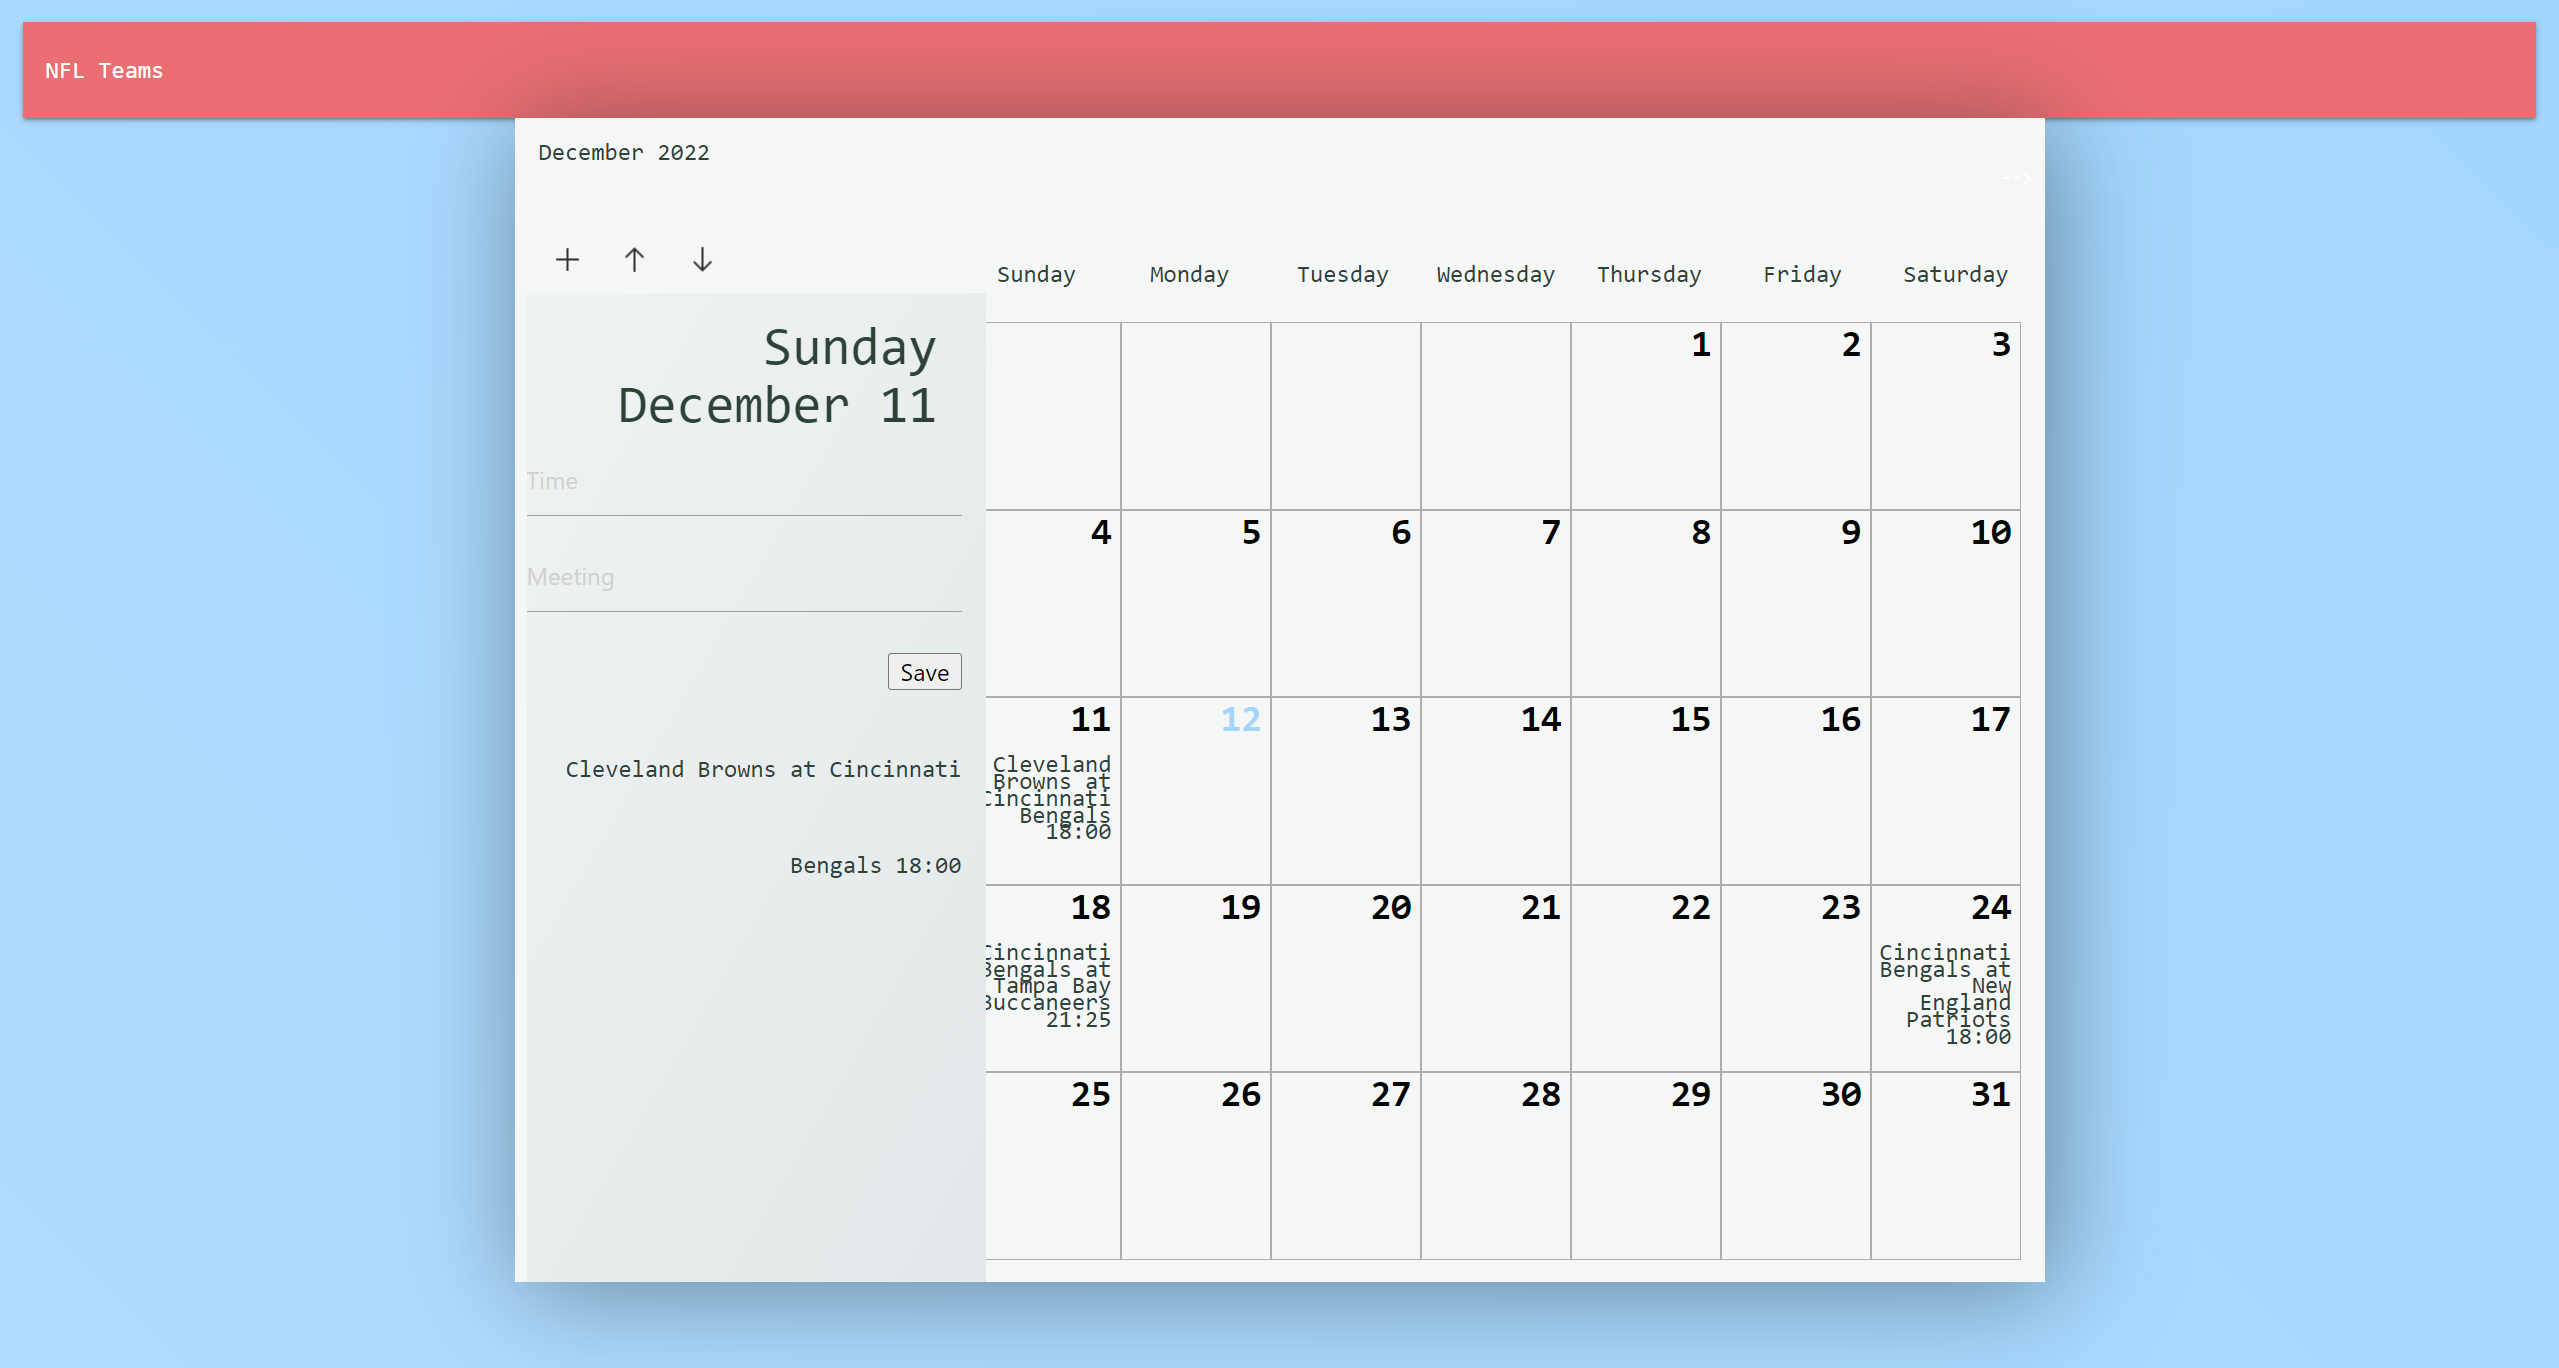
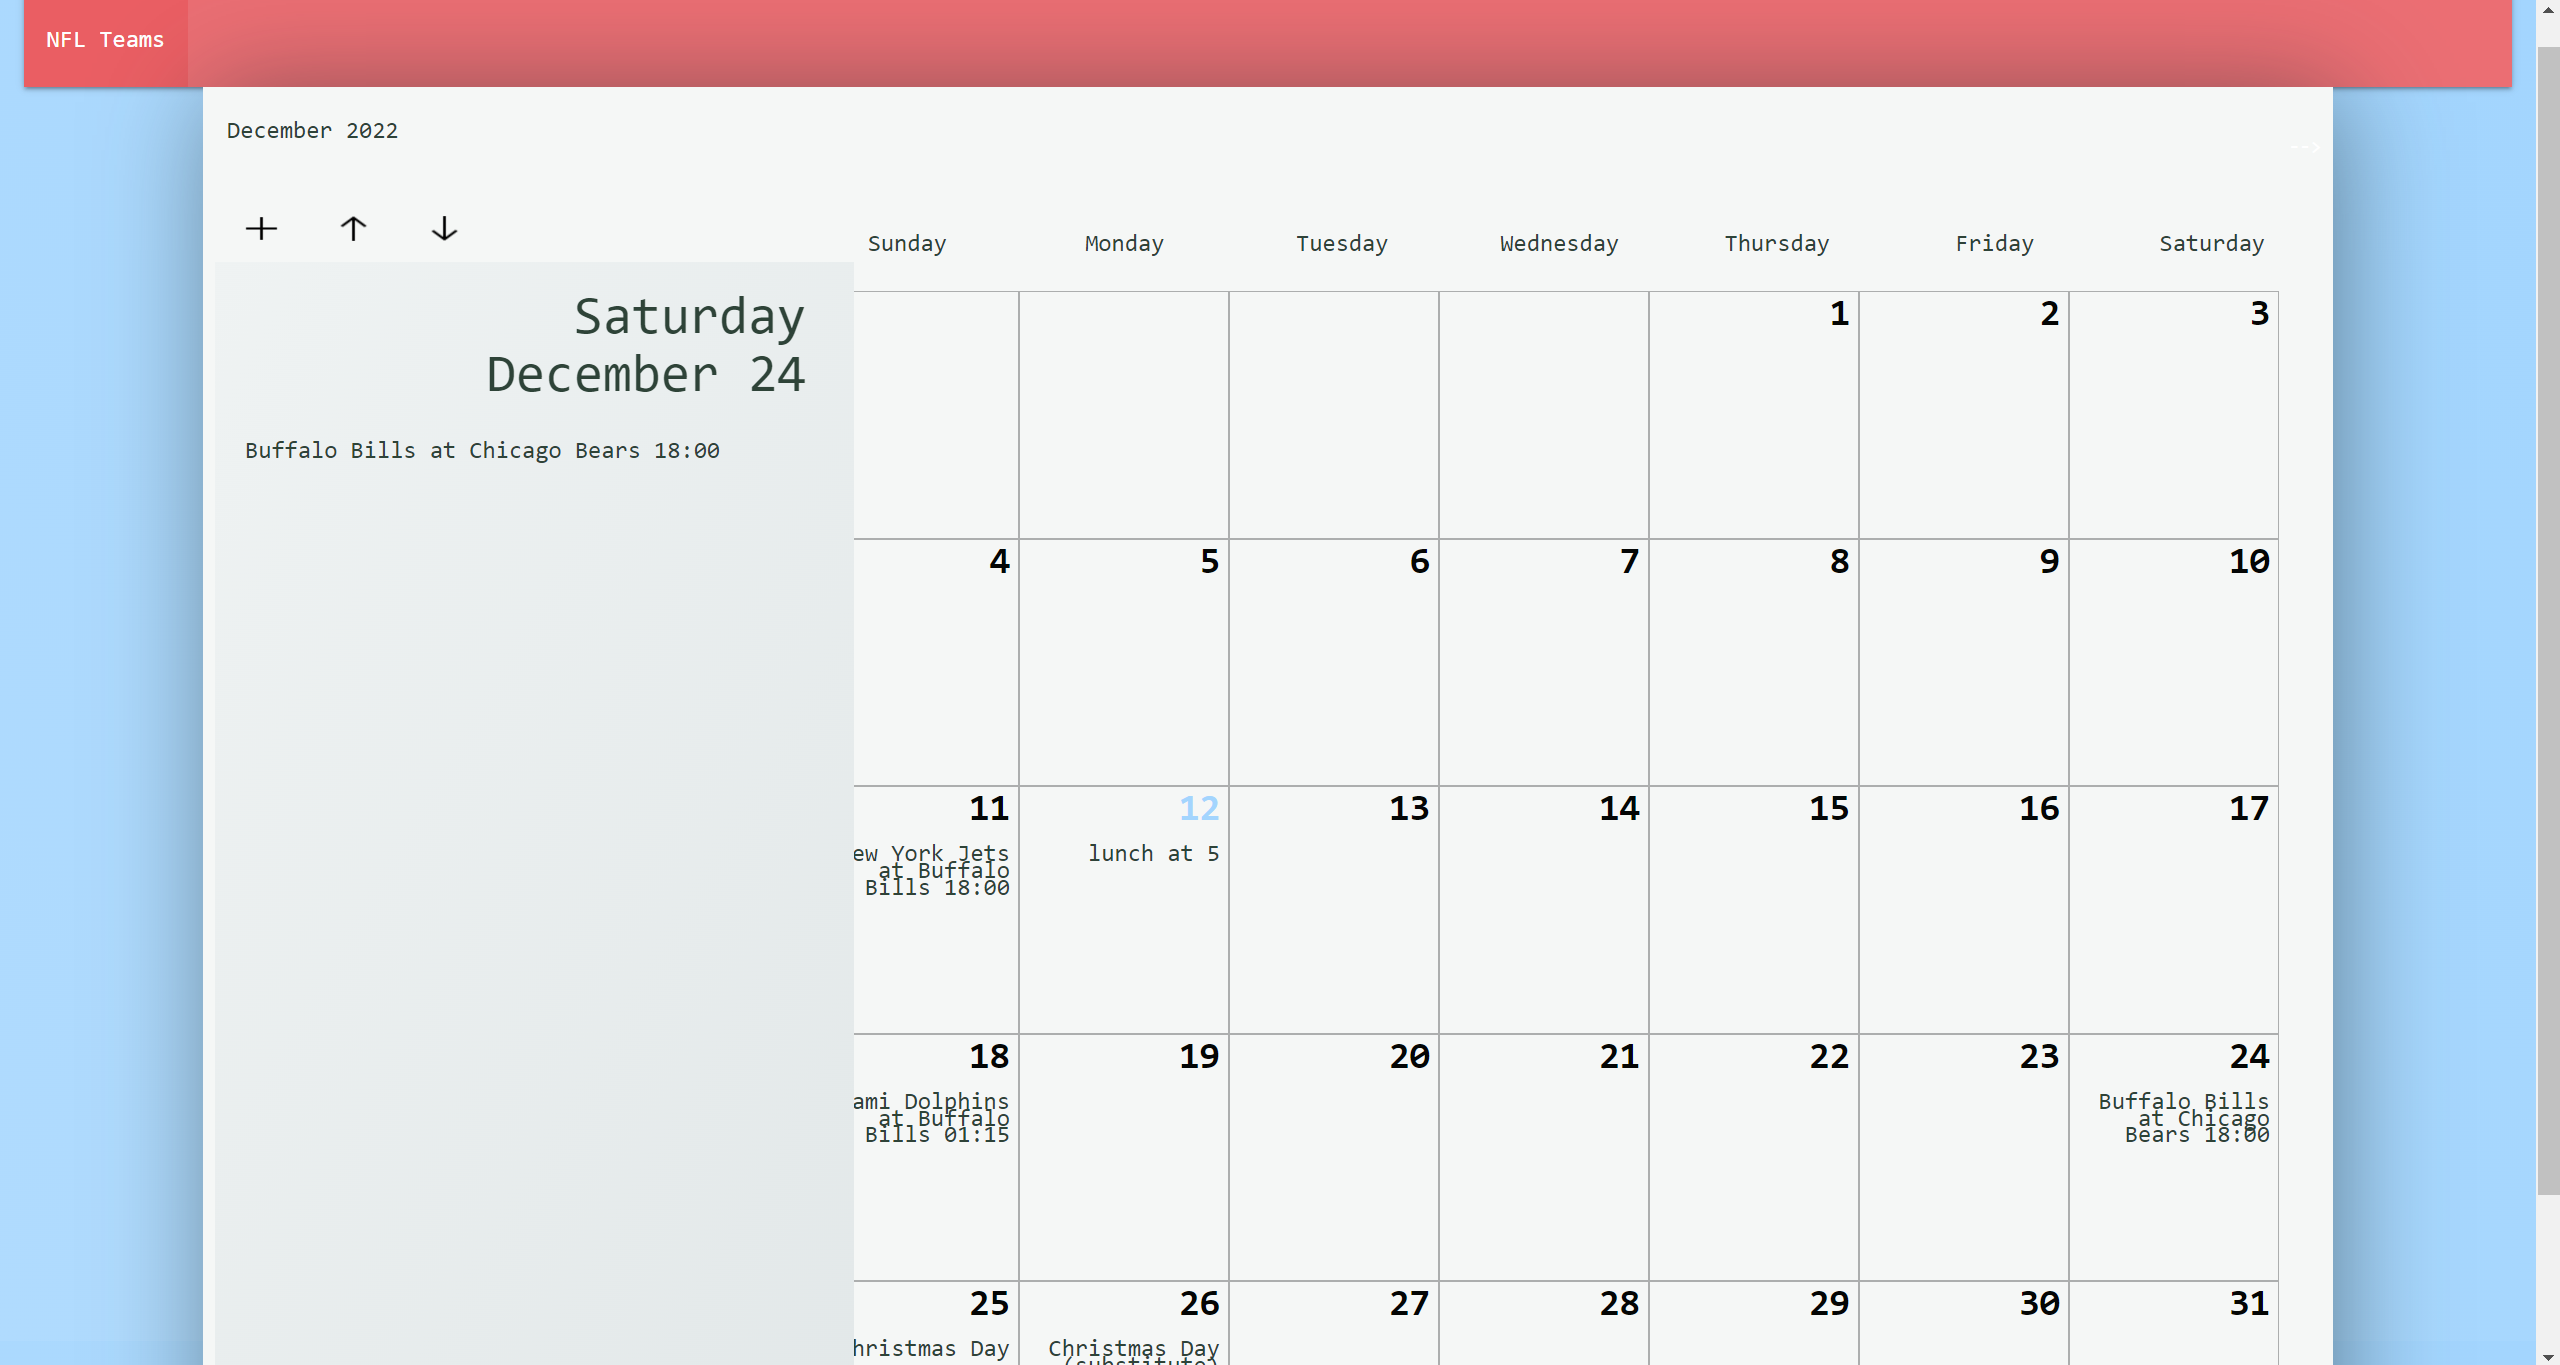
can now add own plans

diff --git a/assets/js/script.js b/assets/js/script.js
@@ -23,6 +23,10 @@ var sidebarList = document.querySelector('.sidebar-list');
 var calEvent;
 var plusSign = document.querySelector(".plus-sign");
 var saveTodo = document.querySelector("#save-todo")
+var curMonthDay = document.querySelector('#curMonthDay')
+var sideDate;
+var todoItem = document.querySelector("#todo-item");
+var todoItemArray = [];
 
 function displayDates() {
     //displays month and year at top of calendar
@@ -32,7 +36,7 @@ function displayDates() {
     var todaysWeekday = document.querySelector('#curWeekday');
     todaysWeekday.textContent = curWeekDay;
     //displays todays date and month into box on side of calendar
-    var curMonthDay = document.querySelector('#curMonthDay');
+    //var curMonthDay = document.querySelector('#curMonthDay');
     curMonthDay.textContent = curMonth + ' ' + curDay;
     //function to compare the date number on the calendar to the current date and add class '.today'
     for (let i = 1; i <= paddingDays + numOfDays; i++) {
@@ -62,6 +66,18 @@ function displayDates() {
 
 }
 displayDates();
+
+function loadLocalStorage (){
+    sideDate = curYear + "-" + dayjs(curMonthDay.textContent).format("MM-DD")
+    todoItemEl = document.createElement("p");
+    todoItemEl.textContent = todoItem.value
+
+    document.getElementById(sideDate).appendChild(todoItemEl)
+    todoItemEl.textContent = localStorage.getItem(sideDate)
+}
+
+loadLocalStorage()
+
 
 async function run(t) {
     var nflApi = `https://sports.core.api.espn.com/v2/sports/football/leagues/nfl/seasons/2022/teams/${t}/events?lang=en&region=us`
@@ -103,7 +119,6 @@ function holidayData() {
             return response.json();
         })
         .then(function (data) {
-            //console.log(data)
             for (var i = 0; i < data.response.holidays.length; i++) {
                 let holidayInfo = {
                     date: dayjs(data.response.holidays[i].date.iso).format("YYYY-MM-D"),
@@ -138,7 +153,7 @@ function holidayData() {
 
         })
 }
-// holidayData();
+holidayData();
 
 var Dd = document.querySelector("#Sd");
 var test = document.querySelector(".Sportsdropdown")
@@ -146,25 +161,15 @@ var test = document.querySelector(".Sportsdropdown")
 
 Dd.addEventListener("click", function (event) {
     var element = event.target;
-    //console.log(element)
     var t = element.getAttribute("id");
     run(t)
 
 });  // drop downs arent on clicks they are on changes.
 
-//plusSign.addEventListener('click', addTodo);
-
-// function addTodo() {
-//     var addItem = document.querySelectorAll('.add-item');
-//     //addItem.style = 'display: block';//need to figure out how to unhide
-//     console.log(addItem);
-
-// }
-
-
 $(document).on('click', '.calendar-day', displayDay)
 function displayDay(event) {
     // event.preventDefault();
+    $('.sidebar-list').empty();
 
     curWeekday.innerHTML = dayjs($(this).children().attr("id")).format("dddd");
     curMonthDay.innerHTML = dayjs($(this).children().attr("id")).format("MMMM D");
@@ -174,6 +179,27 @@ function displayDay(event) {
     dailyList.classList.add("sidebar-list-item");
     sidebarList.appendChild(dailyList);
     dailyList.textContent = $(this)[0].children[0].children[0].textContent || "";
+
+
+}
+
+
+saveTodo.addEventListener("click", saveEvent)
+
+function saveEvent () {
+    console.log(curYear + "-" + dayjs(curMonthDay.textContent).format("MM-DD"))
+    sideDate = curYear + "-" + dayjs(curMonthDay.textContent).format("MM-DD")
+
+
+    console.log(todoItem)
+    todoItemEl = document.createElement("p");
+    todoItemEl.textContent = todoItem.value
+
+    document.getElementById(sideDate).appendChild(todoItemEl)
+
+    localStorage.setItem(sideDate, todoItemArray)
+    todoItemArray.push(todoItem.value)
+
 
 
 }

diff --git a/index.html b/index.html
@@ -114,7 +114,6 @@
                 <!-- list for today's events -->
                 <ul class="sidebar-list" >
                     <li class="add-item">
-                        <input id="todo-time" type="text" placeholder="Time">
                         <input id="todo-item" type="text" placeholder="Meeting">
                         <button id="save-todo">Save</button>
                     </li>

diff --git a/README.md b/README.md
@@ -5,7 +5,7 @@
 - This webpage is designed to organize your upcoming events.
 - The user can find upcoming holidays aswell as football games by team name .
 - The user can enter there own event plans and save them to the calender.
-- The calender self updates to highlight present day aswell as chnage dates and days to corespond with present month.
+- The calender self updates to highlight present day aswell as chnage dates and days to correspond with present month.
 
  
 
@@ -36,7 +36,7 @@
 - This website provides users with a real time calender.
 - The calender will auto adjust its weekdays and numbers to the proper position based on the current month.
 - When the page is loaded the user can immediately see the present date and time.
-- The user will be displayed any holidays that fall within that month on its corisponding day to the calender.
+- The user will be displayed any holidays that fall within that month on its corresponding day to the calender.
 - The user is presented with a drop down menu that features all NFL teams.
 - When a specific NFL team is clicked , the calender will display all upcoming games tot the calander on the date they fall in with  the time and match-up.
 - The user can click on the specific day they want to add an event to.
@@ -44,7 +44,7 @@
 - This feild will appear on the left hand side of the calender.
 - After the user has input there message by clicking the save button it will be stored onto there calender.
 
- 
+ ![screenshot of calendar](assets/images/screenshot.png)
  
  
  
